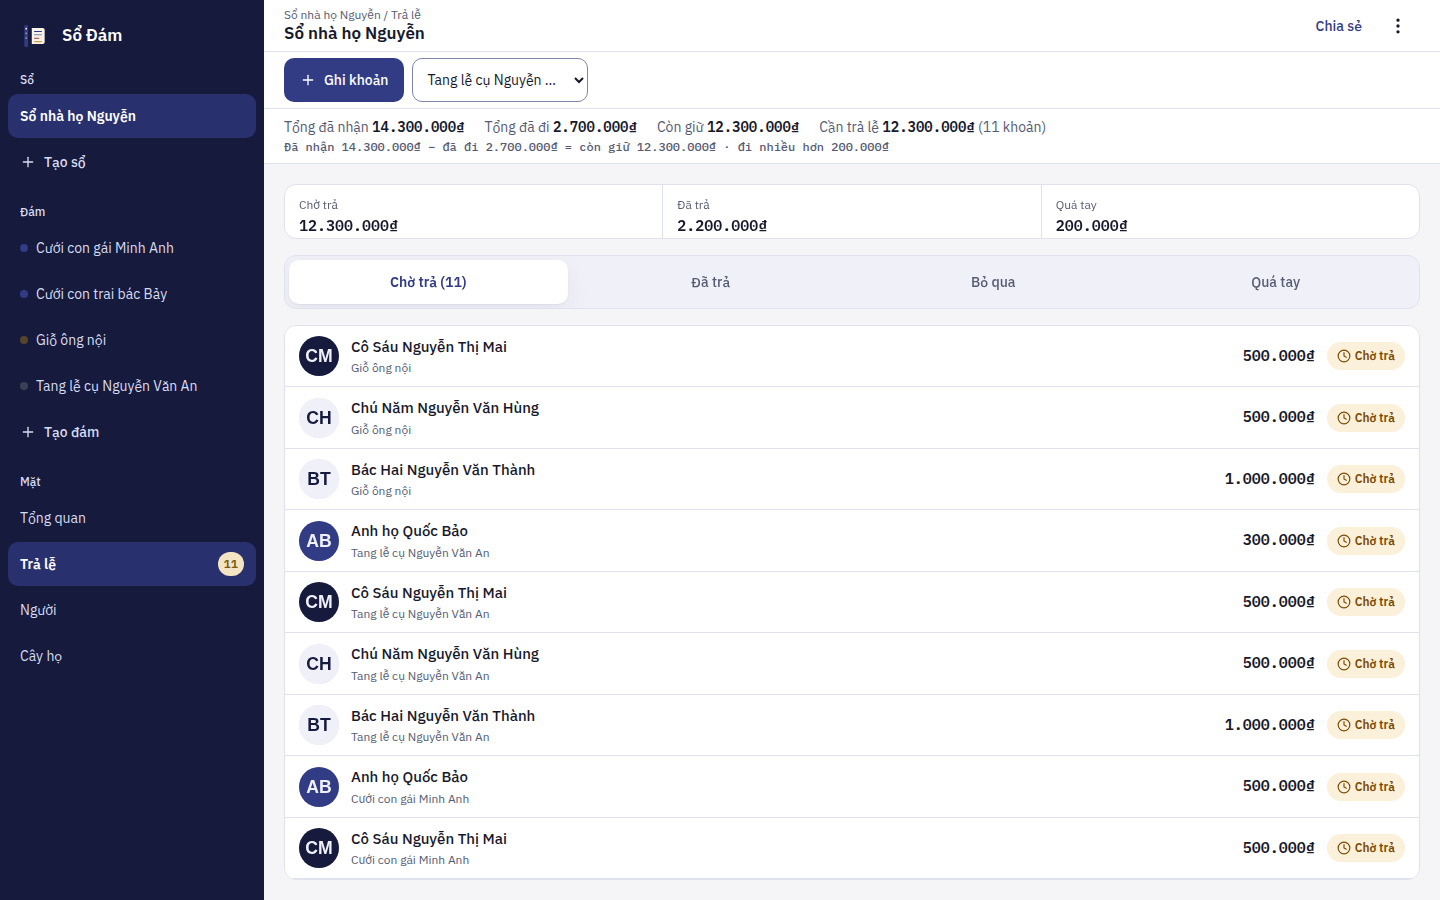
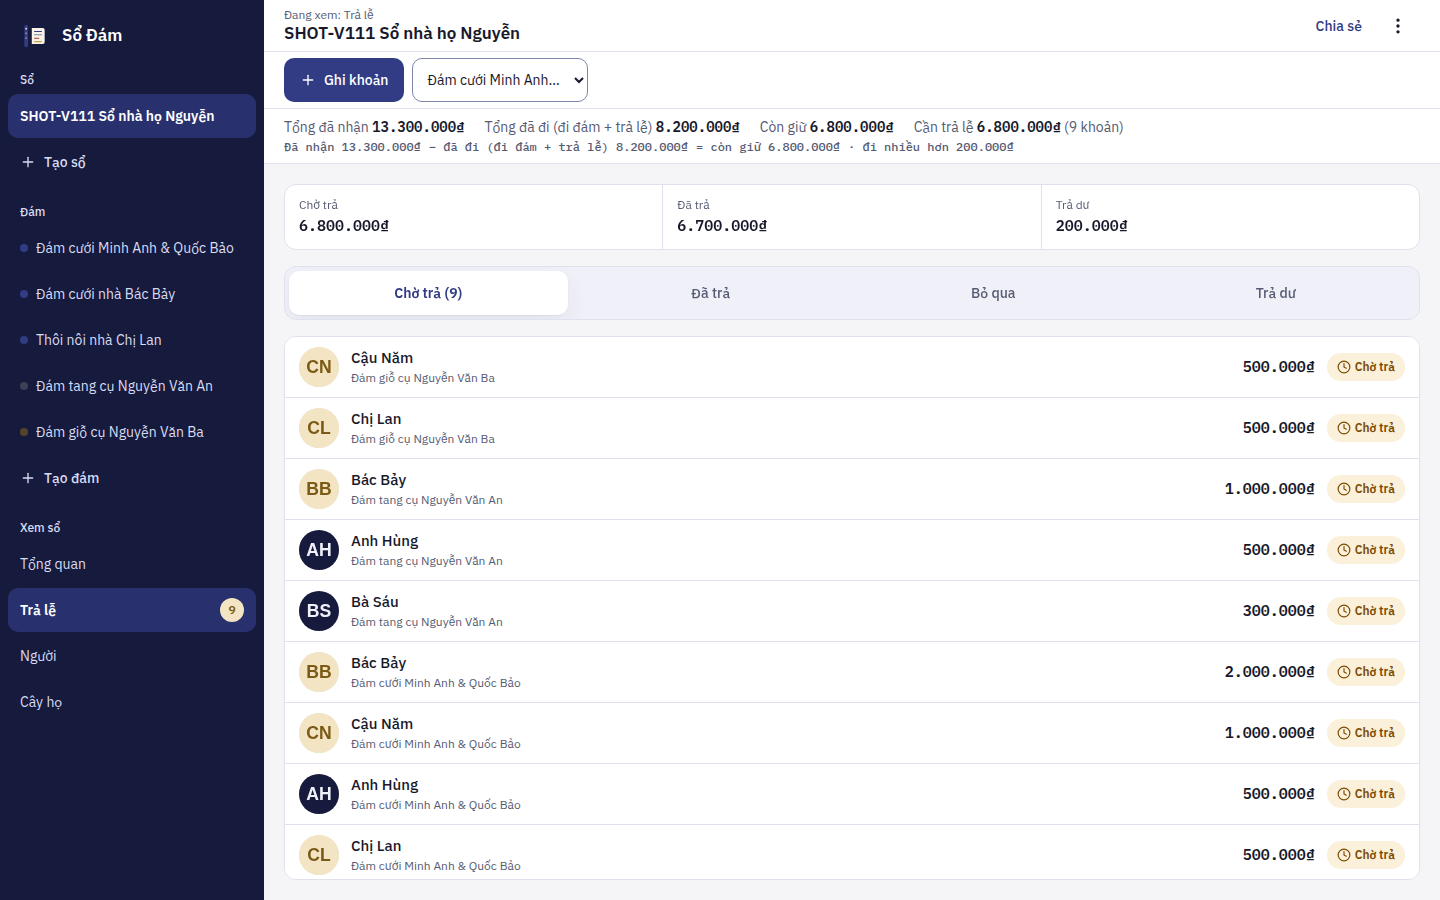
docs: re-shoot screenshot pack on v1.1.1 (DOC-03) — real SHOT-V111 data, People-page semantics, R2 sha256 3/3

diff --git a/README.md b/README.md
@@ -17,7 +17,7 @@ code (or the share link) with family so everyone writes in the same book.
 Repository: https://github.com/changvn2002/sodam
 
 <p align="center">
-  <img src="docs/screenshots/sodam-desktop.png" alt="Sổ Đám — the wedding workspace of a real family book: 14.300.000 ₫ received across four events, 12.300.000 ₫ still held, 12.300.000 ₫ of returns still open" width="900">
+  <img src="docs/screenshots/sodam-desktop.png" alt="Sổ Đám — the wedding workspace of a real family book: 13.300.000 ₫ received across five events, 6.800.000 ₫ still held, 6.800.000 ₫ of returns still open" width="900">
 </p>
 <p align="center"><em>The live wedding workspace of a real family book — every guest row carries its return state, the totals strip spells out its own formula, and there is no sign-in anywhere.</em></p>
 
@@ -52,16 +52,17 @@ ran as a client module talking to a NestJS backend.
 ## 🖼 Screenshots
 
 Every screenshot below was captured from the live production deployment at
-https://sodam-tawny.vercel.app (the redesign-v2 "Command Ledger" build) with the
-app in a **real, populated state** — never an empty first-run screen. The book on
-screen is **"Sổ nhà họ Nguyễn"**, holding four events: a hosted wedding
-("Cưới con gái Minh Anh", 18 Oct 2026) with six guests, a funeral
-("Tang lễ cụ Nguyễn Văn An", 2 Oct 2026) with four mourners, a hosted death
-anniversary ("Giỗ ông nội", 4 Oct 2026), and a wedding the family attended
-(11 Oct 2026). Two return gifts have already been marked as returned — one of
-them 200.000 ₫ more than the guest originally gave. Invite codes are never
-printed in this README; on the home screen the app itself only ever shows a
-masked code.
+https://sodam-tawny.vercel.app (the redesign-v2 "Command Ledger" build,
+v1.1.1) with the app in a **real, populated state** — never an empty first-run
+screen. The book on screen is **"Sổ nhà họ Nguyễn"** (capture copy
+"SHOT-V111"), holding five events: a hosted wedding ("Đám cưới Minh Anh &
+Quốc Bảo", 18 Oct 2026) with six guests, a hosted funeral ("Đám tang cụ
+Nguyễn Văn An", 13 Sep 2026) with four mourners, a hosted death anniversary
+("Đám giỗ cụ Nguyễn Văn Ba", 23 Aug 2026), and two events the family attended
+— a wedding (11 Oct 2026) and a thôi nôi (20 Sep 2026). Three return gifts
+have already been marked as returned — one of them 200.000 ₫ more than the
+guest originally gave. Invite codes are never printed in this README; on the
+home screen the app itself only ever shows a masked code.
 
 ### The wedding workspace — ledger, totals and the formula
 
@@ -69,19 +70,20 @@ masked code.
 
 _The workspace is one continuous screen: the rail on the left (Sổ → Đám → Mặt),
 the quick-entry command bar on top, and the ledger in the middle. The totals
-strip reads the whole book at a glance — 14.300.000 ₫ received ("Tổng đã nhận"),
-2.700.000 ₫ gone out ("Tổng đã đi"), 12.300.000 ₫ still held ("Còn giữ") and
-12.300.000 ₫ of returns still open across 11 obligations ("Cần trả lễ") — and
-the mono formula line underneath spells the maths out, including the
-200.000 ₫ over-given part. The wedding itself took 10.000.000 ₫ from 6 guests;
-2.000.000 ₫ is already settled, and every row carries its own return state:
-"Chờ trả", "Đã trả", or "Quá tay" for the guest who was returned more than
-they gave._
+strip reads the whole book at a glance — 13.300.000 ₫ received ("Tổng đã nhận"),
+8.200.000 ₫ gone out ("Tổng đã đi (đi đám + trả lễ)" — attended gifts plus
+returns actually paid), 6.800.000 ₫ still held ("Còn giữ") and 6.800.000 ₫ of
+returns still open across 9 obligations ("Cần trả lễ") — and the formula line
+underneath spells the maths out, including the 200.000 ₫ over-given part
+("đi nhiều hơn 200.000 ₫"). The wedding itself took 10.000.000 ₫ from
+6 guests; 6.000.000 ₫ of it is already settled, and every row carries its own
+return state: "Chờ trả", "Đã trả", or "Trả dư" for the guest who was returned
+more than they gave._
 
 | Mobile (390×844) | Social / link-preview (1280×640) |
 | --- | --- |
 | ![Mobile — the same wedding workspace on a phone: event chips, totals and formula on top, guest ledger below, "Còn giữ" and the record button pinned at the bottom](docs/screenshots/sodam-mobile.png) | ![Social — 1280×640 preview frame of the wedding workspace: totals strip, event summary and the first guest rows](docs/screenshots/sodam-social.png) |
-| _On a phone the rail becomes event chips and the four faces become tabs (Tổng quan / Trả lễ / Người / Cây họ); the bottom bar keeps "Còn giữ 12.300.000 ₫" and the "Ghi khoản" button always in reach._ | _The 1280×640 frame of the same screen: the totals, the wedding summary (10.000.000 ₫ mừng, 2.000.000 ₫ đã trả) and the settled / over-given rows are visible before the app even opens._ |
+| _On a phone the rail becomes event chips and the four faces become tabs (Tổng quan / Trả lễ / Người / Cây họ); the bottom bar keeps "Còn giữ 6.800.000 ₫" and the "Ghi khoản" button always in reach._ | _The 1280×640 frame of the same screen: the totals, the wedding summary (10.000.000 ₫ mừng, 6.000.000 ₫ đã trả) and the settled / over-given rows are visible before the app even opens._ |
 
 ### Step by step
 
@@ -91,39 +93,40 @@ device — each with its running total and a **masked** invite code (the full co
 is never shown on screen). The season card counts 106 days to Tết Nguyên đán
 (6 Feb 2027).
 
-![Step 1 — home: create/join tabs, the "Sổ nhà họ Nguyễn" book card with its masked invite code and 14.300.000 ₫ total, and the Tết countdown card](docs/screenshots/gallery-01-tao-so.png)
+![Step 1 — home: create/join tabs, the "Sổ nhà họ Nguyễn" book card with its masked invite code and 13.300.000 ₫ total, and the Tết countdown card](docs/screenshots/gallery-01-tao-so.png)
 
 **Step 2 — Record who gave what.** The entry sheet opens over the ledger: type a
 name (or dictate it on the "Giọng nói" tab), tap a quick amount chip, and the
-"Sẽ ghi:" line reads the entry back — "Chị Bảy Phạm Thu Hằng — 500.000 ₫ tiền
-mừng" — before "Lưu khoản mừng" saves it. Nothing is written until that read-back
-looks right.
+"Sẽ ghi:" line reads the entry back — "Dì Út — 500.000 ₫ tiền mừng" — before
+"Lưu khoản mừng" saves it. Nothing is written until that read-back looks right.
 
 ![Step 2 — the entry sheet mid-action over the wedding ledger: guest name typed, 500.000 ₫ chip chosen, the read-back line confirming the entry before it is saved](docs/screenshots/gallery-02-ghi-le.png)
 
 **Step 3 — Work the return list.** The "Trả lễ" face collects every obligation
-across all four events under one summary strip — 12.300.000 ₫ still waiting
-("Chờ trả"), 2.200.000 ₫ already returned ("Đã trả"), 200.000 ₫ given over
-("Quá tay") — with a tab per state and the amount owed shown on every row.
+across all five events under one summary strip — 6.800.000 ₫ still waiting
+("Chờ trả"), 6.700.000 ₫ already returned ("Đã trả"), 200.000 ₫ given over
+("Trả dư") — with a tab per state and the amount owed shown on every row.
 
-![Step 3 — the return list: summary strip (12.300.000 ₫ waiting, 2.200.000 ₫ returned, 200.000 ₫ over-given), state tabs, and open obligations from the anniversary, the funeral and the wedding](docs/screenshots/gallery-03-tra-le.png)
+![Step 3 — the return list: summary strip (6.800.000 ₫ waiting, 6.700.000 ₫ returned, 200.000 ₫ over-given), state tabs, and open obligations from the anniversary, the funeral and the wedding](docs/screenshots/gallery-03-tra-le.png)
 
 **Step 4 — A funeral speaks a different language.** The same workspace, a
 completely different voice: the funeral of cụ Nguyễn Văn An totals
-"Tổng phúng viếng" — 2.300.000 ₫ from 4 "người viếng" (mourners) — the return
-column reads "Đã đi lại", and no wedding vocabulary appears anywhere on the
-screen. The solar date (2/10/2026) is shown together with its Vietnamese lunar
-date (22/8 âm lịch).
+"Tổng phúng viếng" — 2.300.000 ₫ from 4 "người viếng" (mourners) — its summary
+tracks what has been returned as "Đã đi lại" (500.000 ₫ so far), and no wedding
+vocabulary appears anywhere on the screen. The solar date (13/9/2026) is shown
+together with its Vietnamese lunar date (3/8 âm lịch).
 
-![Step 4 — the funeral workspace in its solemn voice: "Tổng phúng viếng" 2.300.000 ₫, four mourners listed as "Người viếng", lunar date 22/8 âm lịch](docs/screenshots/gallery-04-tong-ket-su-kien.png)
+![Step 4 — the funeral workspace in its solemn voice: "Tổng phúng viếng" 2.300.000 ₫, four mourners listed as "Người viếng", lunar date 3/8 âm lịch](docs/screenshots/gallery-04-tong-ket-su-kien.png)
 
 **Step 5 — Every person, both directions.** The "Người" face totals each
-relationship across all events: Bác Hai Nguyễn Văn Thành has given
-+4.000.000 ₫ over three events, while Nhà bác Bảy stands at −500.000 ₫ — the
-wedding the family attended. What the book owes and what it is owed is visible
-per person, not just per event.
+relationship across all events, with every flow labelled — "Nhận" (received),
+"Đi đám" (given at events the family attended) and "Trả lễ" (actually returned).
+Ông bà ngoại are fully settled (5.000.000 ₫ received, 5.000.000 ₫ returned);
+Cô Tư was returned 1.700.000 ₫ against 1.500.000 ₫ received, so her row reads
+"Đã trả lễ — Trả dư" instead of claiming a balance she no longer owes. What the
+book owes and what it is owed is visible per person, not just per event.
 
-![Step 5 — the People face: eight people with two-way totals and their most recent event, from +5.000.000 ₫ (Ông bà ngoại) to −500.000 ₫ (Nhà bác Bảy)](docs/screenshots/gallery-05-nguoi.png)
+![Step 5 — the People face: seven people with labelled two-way totals (Nhận / Đi đám / Trả lễ) and their return state, from Ông bà ngoại fully settled to Cô Tư returned 200.000 ₫ over](docs/screenshots/gallery-05-nguoi.png)
 
 ## 🛠 Tech stack
 
